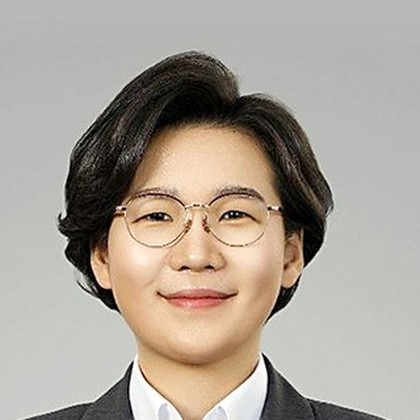
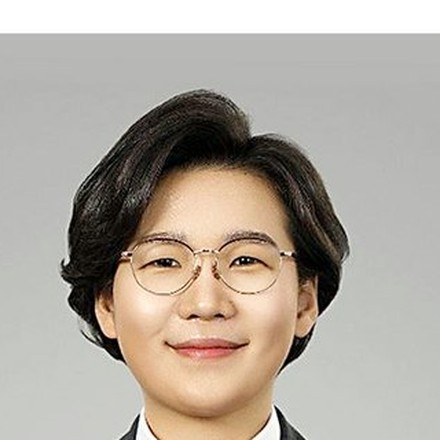
Add files via upload

diff --git a/index.html b/index.html
@@ -59,10 +59,19 @@ a{color:var(--blue);text-decoration:none}
 .dot.on{background:#34f0a8;box-shadow:0 0 0 4px rgba(52,240,168,.25)}
 .tagline{margin-top:16px;font-size:1.02rem;color:#dceafb;max-width:760px}
 .tagline b{color:#fff}
-.stat-strip{display:flex;gap:26px;flex-wrap:wrap;margin-top:18px}
-.stat-strip .s{}
-.stat-strip .s b{display:block;font-size:1.35rem;font-weight:900;color:#fff}
-.stat-strip .s span{font-size:.76rem;color:#a9c4e8}
+.hero-headline{font-size:2.15rem;font-weight:900;color:#fff;line-height:1.28;margin-top:20px;letter-spacing:-.02em;max-width:780px}
+.hero-headline .hl-y{color:#ffd84d}
+.hero-subline{font-size:1.02rem;color:#dceafb;margin-top:13px;max-width:700px;line-height:1.65}
+.hero-subline b{color:#fff}
+.hero-cta-row{display:flex;gap:12px;flex-wrap:wrap;margin-top:20px}
+.tb-btn{font-weight:800;font-size:1rem;padding:13px 22px;border-radius:12px;white-space:nowrap;transition:.15s;box-shadow:0 8px 22px rgba(0,0,0,.28)}
+.tb-btn.primary{background:linear-gradient(135deg,var(--teal),#36e0c0);color:#06201d}
+.tb-btn.ghost{background:rgba(255,255,255,.14);color:#fff;border:1px solid rgba(255,255,255,.32)}
+.tb-btn:hover{transform:translateY(-2px);box-shadow:0 12px 28px rgba(0,0,0,.36)}
+.stat-strip{display:flex;gap:12px;flex-wrap:wrap;margin-top:24px}
+.stat-strip .s{background:rgba(255,255,255,.08);border:1px solid rgba(255,255,255,.16);border-radius:12px;padding:10px 16px}
+.stat-strip .s b{display:block;font-size:1.22rem;font-weight:900;color:#fff}
+.stat-strip .s span{font-size:.72rem;color:#a9c4e8}
 
 /* ===== Nav ===== */
 .subnav{background:var(--navy);border-top:1px solid rgba(255,255,255,.08);position:sticky;top:0;z-index:40}
@@ -220,7 +229,7 @@ section{padding:26px 0}
 .chip.bad{background:#ffe9ef;color:#b21a42;border-color:#fbc9d7}
 
 /* ===== KPI grid ===== */
-.kpi-grid{display:grid;grid-template-columns:repeat(auto-fit,minmax(190px,1fr));gap:14px;margin-top:18px}
+.kpi-grid{display:grid;grid-template-columns:repeat(auto-fit,minmax(160px,1fr));gap:14px;margin-top:18px}
 .kpi{background:#fff;border:1px solid var(--line);border-radius:14px;box-shadow:var(--shadow);padding:16px;position:relative;overflow:hidden}
 .kpi .label{font-size:.78rem;color:var(--muted);font-weight:700;display:flex;align-items:center;gap:6px}
 .kpi .val{font-size:1.7rem;font-weight:900;letter-spacing:-.5px;margin-top:6px}
@@ -379,9 +388,9 @@ footer .disc{font-size:.74rem;color:#7e9bc4;max-width:520px;margin-top:6px}
 .bot-greet .gx{position:absolute;top:5px;right:9px;color:#b6c2d4;font-weight:800;font-size:.9rem}
 .bot-greet .grow{display:flex;gap:10px;align-items:center}
 /* 좌측 '김보미를 소개합니다' 버튼 + 인사 말풍선 */
-.intro-fab{position:fixed;left:20px;bottom:20px;z-index:85;background:transparent;border:none;padding:0;cursor:pointer;animation:floaty 2.6s ease-in-out infinite;line-height:0}
-.intro-fab:hover{animation-play-state:paused;transform:scale(1.06)}
-.intro-fab .kbm-ava{width:116px;height:116px;box-shadow:0 0 0 3px #fff,0 10px 26px rgba(11,37,69,.4)}
+.intro-fab{position:fixed;left:20px;bottom:20px;z-index:85;background:transparent;border:none;padding:0;cursor:pointer;line-height:0;transition:transform .15s}
+.intro-fab:hover{transform:scale(1.05)}
+.intro-fab .kbm-ava{width:112px;height:112px;box-shadow:0 0 0 3px #fff,0 10px 26px rgba(11,37,69,.4)}
 .intro-fab .kbm-ava img{object-position:center center}
 @keyframes floaty{0%,100%{transform:translateY(0)}50%{transform:translateY(-12px)}}
 .intro-greet{position:fixed;left:14px;bottom:128px;z-index:84;max-width:288px;background:#fff;border:1px solid var(--line);border-radius:18px;border-bottom-left-radius:6px;box-shadow:var(--shadow-lg);padding:18px 40px 18px 20px;font-size:.99rem;font-weight:600;color:var(--ink);line-height:1.55;display:none;cursor:pointer}
@@ -393,6 +402,31 @@ footer .disc{font-size:.74rem;color:#7e9bc4;max-width:520px;margin-top:6px}
 .kbm-pub img{width:150px;border-radius:8px;border:1px solid var(--line);flex:none;box-shadow:var(--shadow);background:#eef2f7}
 @media(max-width:560px){.kbm-pub img{width:120px}}
 .kbm-pub h4{font-size:1rem;font-weight:800;color:var(--navy2)}
+/* ===== 모바일 최적화 ===== */
+@media(max-width:520px){
+  .wrap{padding:0 14px}
+  .topbar .wrap{padding-top:18px;padding-bottom:20px}
+  .brand-h{font-size:1.3rem}
+  .hero-headline{font-size:1.5rem;margin-top:16px}
+  .hero-subline{font-size:.92rem}
+  .hero-cta-row .tb-btn{flex:1 1 100%;text-align:center}
+  .stat-strip{gap:10px;margin-top:16px}
+  .stat-strip .s{flex:1 1 calc(50% - 5px)}
+  .stat-strip .s b{font-size:1.1rem}
+  .section-h h2{font-size:1.08rem}
+  .controls{padding:14px;gap:10px}
+  .controls .field{flex:1 1 100%;min-width:0}
+  .controls .btn{flex:1 1 calc(50% - 6px)}
+  .gov-cta{padding:15px 16px}
+  .gov-cta a{width:100%;text-align:center}
+  .kpi .val{font-size:1.5rem}
+  .hh-quote{font-size:1.02rem}
+  .hh-cta .hh-btn{flex:1 1 100%;text-align:center}
+  .intro-fab .kbm-ava{width:92px;height:92px}
+  .intro-greet{bottom:108px;max-width:230px;font-size:.92rem;padding:14px 34px 14px 16px}
+  .bot-fab{padding:11px 14px;font-size:.86rem}
+  .summary-demo .sd-grid{grid-template-columns:repeat(2,1fr)}
+}
 .kbm-pub p{font-size:.84rem;color:#46566f;line-height:1.6;margin-top:5px}
 .kbm-pub .meta{font-size:.76rem;color:#94a3b8;margin-top:7px}
 .kbm-pub .pbtn{display:inline-block;margin-top:9px;background:var(--blue);color:#fff;font-weight:800;font-size:.8rem;padding:8px 14px;border-radius:9px}
@@ -425,19 +459,23 @@ footer .disc{font-size:.74rem;color:#7e9bc4;max-width:520px;margin-top:6px}
       <div class="logo">🏛️</div>
       <div>
         <div class="brand-h">대한민국 재정 <span>365</span></div>
-        <div class="brand-sub">시민이 만드는 투명 재정 · 누구나 의원처럼 · 운영 김보미</div>
+        <div class="brand-sub">시민 재정 감시 플랫폼 · 운영 김보미</div>
       </div>
       <div class="live-badge" id="liveBadge" title="데이터 연동 상태">
         <span class="dot" id="liveDot"></span><span id="liveText">공시 기준</span>
       </div>
     </div>
-    <p class="tagline">공공데이터포털과 <b>지방재정365</b>가 흩어놓은 예산·집행·계약·부채 정보를 <b>한곳에</b> 모았습니다.
-      전문가가 아니어도 <b>우리 동네 살림</b>을 진단하고, 새는 돈을 직접 감시·견제·제안합니다. <b>라이브 재정 서버에 연결</b>되면 실시간 수치로 자동 갱신됩니다.</p>
+    <h1 class="hero-headline">내가 낸 세금, 우리 동네에서<br><span class="hl-y">잘 쓰이고 있을까?</span></h1>
+    <p class="hero-subline">전국 <b>243개 지방자치단체</b>의 예산·집행·금고이자율을 <b>3초 만에 진단</b>하는 시민 재정 감시 플랫폼입니다.</p>
+    <div class="hero-cta-row">
+      <a href="#diagnose" class="tb-btn primary">🔎 우리 동네 3초 진단</a>
+      <a href="#ranking" class="tb-btn ghost">🏅 전국 순위 보기</a>
+    </div>
     <div class="stat-strip">
       <div class="s"><b>243개</b><span>전국 광역·기초 지자체</span></div>
-      <div class="s"><b id="sbBudget">411.8조 원</b><span>총예산 규모 (2024 회계연도)</span></div>
-      <div class="s"><b id="sbSelf">43.2%</b><span>전국 평균 재정자립도 (지방재정365)</span></div>
-      <div class="s"><b id="sbAuto">70.3%</b><span>전국 평균 재정자주도 (지방재정365)</span></div>
+      <div class="s"><b id="sbBudget">411.8조 원</b><span>총예산 (2024)</span></div>
+      <div class="s"><b id="sbSelf">43.2%</b><span>평균 재정자립도</span></div>
+      <div class="s"><b id="sbAuto">70.3%</b><span>평균 재정자주도</span></div>
     </div>
   </div>
 </header>
@@ -718,18 +756,16 @@ footer .disc{font-size:.74rem;color:#7e9bc4;max-width:520px;margin-top:6px}
     <div class="section-h" style="margin-top:6px"><span class="ic">✊</span><div><h2 style="font-size:1.05rem">① 이상 신호를 봤다면 이렇게 움직이세요</h2><p>의심이 들면 기록 → 근거 수집 → 질문 → 공개 순서가 중요합니다</p></div></div>
     <div class="action-grid" id="actionGrid"></div>
 
-    <div class="section-h" style="margin-top:24px"><span class="ic">✍️</span><div><h2 style="font-size:1.05rem">② 의견·정책 제안 남기고 → 의회로 전달</h2><p>예산 낭비 의심, 집행 지연, 계약 구조 질문, 제도 개선 제안을 남기고 <b>해당 시·군·구 의회로 메일</b>까지 보낼 수 있습니다</p></div></div>
+    <div class="section-h" style="margin-top:24px"><span class="ic">✍️</span><div><h2 style="font-size:1.05rem">② 의견·제안을 AI가 다듬어 → 의회로 전달</h2><p>짧게 적기만 하면 <b>AI가 정중한 민원·질의 문장</b>으로 다듬고 <b>재정 요약</b>을 붙여 <b>해당 시·군·구 의회</b> 메일 작성창을 열어드립니다</p></div></div>
     <div class="card pad">
       <div id="voiceRegion" class="muted" style="font-size:.88rem;margin-bottom:10px"></div>
-      <div class="field-row" style="margin-top:0">
-        <div class="field" style="flex:0 1 180px"><label>닉네임</label><input id="voiceName" type="text" placeholder="예: 강진군민"></div>
-        <div class="field" style="flex:2"><label>의견 / 질의 / 제안</label><input id="voiceText" type="text" placeholder="짧아도 괜찮습니다. 무엇이 궁금한지, 어떤 점이 이상한지 적어주세요"></div>
-        <button class="btn btn-ghost" id="voiceSubmit">의견 남기기</button>
-        <button class="btn btn-primary" id="voiceMail">📧 의회로 메일 보내기</button>
+      <div class="field-row" style="margin-top:0;align-items:flex-end">
+        <div class="field" style="flex:0 1 170px"><label>닉네임</label><input id="voiceName" type="text" placeholder="예: 강진군민"></div>
+        <div class="field" style="flex:2;min-width:240px"><label>핵심 의견 · 질의 · 제안 <span class="muted" style="font-weight:600">(짧아도 OK)</span></label><textarea id="voiceText" rows="2" placeholder="예) 우리 동네 축제 예산이 과한 것 같아요. 항목별 내역을 공개해 주세요." style="width:100%;resize:vertical;padding:10px 12px;border:1.5px solid var(--line);border-radius:var(--r-sm);font-family:inherit;font-size:.9rem;line-height:1.5"></textarea></div>
+        <button class="btn btn-primary" id="voiceMail">🤖 AI로 다듬어 의회 메일 작성</button>
       </div>
       <div style="margin-top:8px"><a id="voiceFind" href="javascript:void(0)" style="font-size:.78rem;font-weight:700">🔎 우리 지역 의회 이메일 찾기</a></div>
-      <div class="muted" style="font-size:.74rem;margin-top:8px">※ ‘메일 보내기’를 누르면 선택한 지역 의회 앞으로 의견·재정 요약이 채워진 메일 작성창이 열립니다. 받는사람에 해당 의회 이메일을 넣어 보내세요. 남긴 의견은 현재 이 브라우저에 저장되는 시연 버전이며, 정식 운영 시 서버와 연동됩니다.</div>
-      <div id="voiceList" style="margin-top:14px"></div>
+      <div class="muted" style="font-size:.74rem;margin-top:8px">※ 버튼을 누르면 AI가 입력 내용을 <b>정중한 민원 문장</b>으로 다듬고 해당 지역 재정 요약을 덧붙여 <b>메일 작성창</b>을 엽니다. 받는사람에 의회 이메일을 넣고, 내용 확인 후 본인이 발송하세요.</div>
     </div>
   </section>
 
@@ -1816,41 +1852,44 @@ function printReport(R){
 }
 
 /* ---------- 시민 의견 ---------- */
-function voiceKey(R){return 'jjs_op_'+R.key;}
-function loadOps(R){try{return JSON.parse(localStorage.getItem(voiceKey(R))||'[]');}catch(e){return [];}}
 function renderVoice(R){
-  const vr=document.getElementById('voiceRegion'); if(vr) vr.innerHTML=`현재 의견 대상: <b>${R.display}</b>`;
-  const ops=loadOps(R), el=document.getElementById('voiceList'); if(!el) return;
-  el.innerHTML = ops.length? ops.map(o=>`<div class="ai-item check"><span class="t">🗣️ ${o.name} · ${o.date}</span>${o.text}</div>`).join('')
-    : `<div class="muted" style="font-size:.85rem">아직 등록된 의견이 없습니다. 첫 의견을 남겨보세요.</div>`;
-}
-function addOp(){
-  const R=STATE.region; if(!R) return;
-  const name=(document.getElementById('voiceName').value.trim())||'익명 시민';
-  const text=document.getElementById('voiceText').value.trim();
-  if(!text){toast('의견 내용을 입력하세요');return;}
-  const ops=loadOps(R); ops.unshift({name,text,date:new Date().toLocaleDateString('ko-KR')});
-  try{localStorage.setItem(voiceKey(R),JSON.stringify(ops.slice(0,50)));}catch(e){}
-  document.getElementById('voiceText').value=''; renderVoice(R); toast('의견이 등록되었습니다');
+  const vr=document.getElementById('voiceRegion'); if(vr) vr.innerHTML=`현재 대상: <b>${R.display}</b> <span class="muted">— 메일은 ${councilName(R)} 앞으로 작성됩니다</span>`;
 }
 function councilName(R){ // 의회 명칭 추정
   if(!R||R.key==='전국') return '해당 지방의회';
   if(R.isSido) return R.name.replace(/(특별자치도|특별자치시|특별시|광역시|도)$/,m=>m)+'의회';
   return R.name+'의회';
 }
-function sendToCouncil(){
+// AI가 시민의 짧은 입력을 정중한 민원 메일 본문으로 다듬음 (실패 시 null)
+async function aiPolishMail(R,text,council){
+  try{
+    const ctrl=new AbortController(), t=setTimeout(()=>ctrl.abort(),16000);
+    const ask=`아래 시민의 짧은 의견을 ${council} 앞으로 보내는 정중한 민원·질의 메일 '본문'으로 다듬어 주세요. 조건: 한국어 존댓말, 4~7문장, 사실을 단정하지 말고 '확인·자료 공개를 정중히 요청'하는 어조, 간단한 인사말과 맺음말 포함, 제목/받는사람/머리말 줄은 빼고 본문만 출력. 대상 지역=${R.display}. 시민 의견: "${text}"`;
+    const res=await fetch(BOT_API,{method:'POST',headers:{'Content-Type':'application/json'},signal:ctrl.signal,
+      body:JSON.stringify({messages:[{role:'user',content:ask}],context:`너는 시민의 의견을 지방의회 민원 메일 본문으로 다듬는 작성 도우미다. 객관적이고 공손하게, 특정인 비방 없이.`})});
+    clearTimeout(t);
+    if(!res.ok) return null;
+    const j=await res.json(); const r=(j.reply||j.text||j.content||'').toString().trim();
+    return r.length>20?r:null;
+  }catch(e){ return null; }
+}
+async function sendToCouncil(){
   const R=STATE.region||STATE.national;
   const nm=(document.getElementById('voiceName').value.trim())||'시민';
-  const text=document.getElementById('voiceText').value.trim();
-  if(!text){ toast('의견 내용을 입력하세요'); return; }
+  const raw=document.getElementById('voiceText').value.trim();
+  if(!raw){ toast('의견 내용을 입력하세요'); return; }
   const council=councilName(R);
-  const snap=`재정 건강등급 ${R.grade}(종합 ${R.score}점) · 재정자립도 ${R.selfReliance}% · 채무비율 ${R.debtRatio}% · 세출 집행률 ${R.execRate}% · 금고 이자율 ${R.bankRate}%`;
+  const snap=`재정 건강등급 ${R.grade}(종합 ${R.score}점) · 재정자립도 ${R.selfReliance}% · 채무비율 ${R.debtRatio}% · 세출 집행률 ${R.execRate}% · 금고 이자율 ${R.bankRate}% · 축제·행사성 경비 ${R.festivalRatio}% · 종합청렴도 ${R.integrity}등급`;
+  const btn=document.getElementById('voiceMail'); const orig=btn?btn.innerHTML:'';
+  if(btn){btn.disabled=true;btn.innerHTML='🤖 AI가 다듬는 중…';}
+  toast('🤖 AI가 정중한 민원 문장으로 다듬는 중…');
+  const polished=await aiPolishMail(R,raw,council);
+  if(btn){btn.disabled=false;btn.innerHTML=orig;}
+  const bodyMain=polished||raw;
   const subj=`[시민 재정 감시 의견] ${R.display} — ${council} 귀중`;
-  const body=`■ 받는 곳: ${council}\n■ 작성자: ${nm}\n■ 대상 지역: ${R.display}\n\n■ 의견 · 질의 · 제안\n${text}\n\n──────────\n■ 참고 재정 요약 (대한민국 재정 365)\n${snap}\n※ 위 수치는 공공데이터·지방재정365 기반 통계 참고치이며, 정확한 값은 공식 원부(lofin.mois.go.kr) 확인이 필요합니다.\n\n— 대한민국 재정 365 (시민 재정 감시 플랫폼)에서 전송`;
-  // 의견도 함께 로컬 등록
-  try{ const ops=loadOps(R); ops.unshift({name:nm,text:text+' (의회 메일 전송)',date:new Date().toLocaleDateString('ko-KR')}); localStorage.setItem(voiceKey(R),JSON.stringify(ops.slice(0,50))); renderVoice(R);}catch(e){}
+  const body=`■ 받는 곳: ${council}\n■ 작성자: ${nm}\n■ 대상 지역: ${R.display}\n\n${bodyMain}\n\n──────────\n■ 참고 재정 요약 (대한민국 재정 365)\n${snap}\n※ 위 수치는 공공데이터·지방재정365 기반 통계 참고치이며, 정확한 값은 공식 원부(lofin.mois.go.kr) 확인이 필요합니다.\n\n— 대한민국 재정 365 (시민 재정 감시 플랫폼)${polished?' · ✍️ AI 문장 다듬기 적용':''}`;
   window.location.href=`mailto:?subject=${encodeURIComponent(subj)}&body=${encodeURIComponent(body)}`;
-  toast(`✉️ ${council} 앞 메일 작성창을 엽니다`);
+  toast(`✉️ ${council} 앞 메일 작성창을 엽니다${polished?' (AI 다듬기 적용)':''}`);
 }
 function findCouncilEmail(){
   const R=STATE.region||STATE.national;
@@ -2226,10 +2265,9 @@ function wire(){
   document.getElementById('diagnoseBtn').addEventListener('click',()=>{ renderAll(currentSelection()); window.scrollTo({top:document.getElementById('charts').offsetTop-50,behavior:'smooth'}); });
   document.getElementById('randomBtn').addEventListener('click',()=>{ const r=STATE.model[Math.floor(Math.random()*STATE.model.length)]; selectByKey(r.key); toast('🎲 '+r.display+' 진단!'); });
   document.getElementById('pdfBtn').addEventListener('click',()=>printReport(STATE.region||STATE.national));
-  document.getElementById('voiceSubmit').addEventListener('click',addOp);
   document.getElementById('voiceMail').addEventListener('click',sendToCouncil);
   document.getElementById('voiceFind').addEventListener('click',findCouncilEmail);
-  document.getElementById('voiceText').addEventListener('keydown',e=>{if(e.key==='Enter')addOp();});
+  document.getElementById('voiceText').addEventListener('keydown',e=>{if(e.key==='Enter'&&(e.ctrlKey||e.metaKey))sendToCouncil();});
   document.getElementById('detailBtn').addEventListener('click',()=>openDetail((STATE.region||STATE.national).key));
   document.getElementById('dClose').addEventListener('click',closeDetail);
   document.getElementById('dPdf').addEventListener('click',()=>printReport(STATE.region||STATE.national));